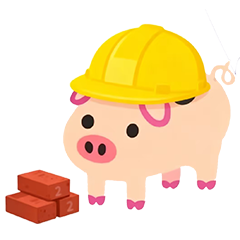
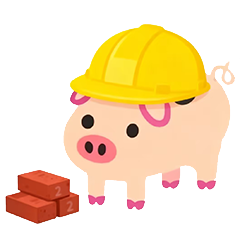
perf(resources): 压缩内置图片并更新小猪立绘
- 图鉴底图和烤箱补货图改用 JPG，减少安装包体积
- 同步并压缩 9 张现有小猪图片

diff --git a/nonebot_plugin_rollpig_plus/catalog_renderer.py b/nonebot_plugin_rollpig_plus/catalog_renderer.py
@@ -77,7 +77,7 @@ async def catalog_render_budget(_label: str) -> AsyncIterator[None]:
         semaphore.release()
 
 
-CATALOG_BASE_IMAGE = RESOURCE_DIR / "catalog_base.png"
+CATALOG_BASE_IMAGE = RESOURCE_DIR / "catalog_base.jpg"
 CATALOG_FONT = RESOURCE_DIR / "fonts" / "SourceHanSansSC-Medium.otf"
 CATALOG_PAGE_SIZE = 38
 CATALOG_CACHE_MAX_ENTRIES = 64

diff --git a/nonebot_plugin_rollpig_plus/roast_refill.py b/nonebot_plugin_rollpig_plus/roast_refill.py
@@ -26,7 +26,7 @@ ROAST_REFILL_EMOJI_ID = "424"
 ROAST_REFILL_EMOJI_TYPE = 1
 ROAST_REFILL_FETCH_PAGE_SIZE = 100
 ROAST_REFILL_FETCH_MAX_PAGES = 20
-ROAST_REFILL_IMAGE_PATH = Path(__file__).parent / "resource" / "refill.png"
+ROAST_REFILL_IMAGE_PATH = Path(__file__).parent / "resource" / "refill.jpg"
 
 
 class RoastRefillReactionError(RuntimeError):
